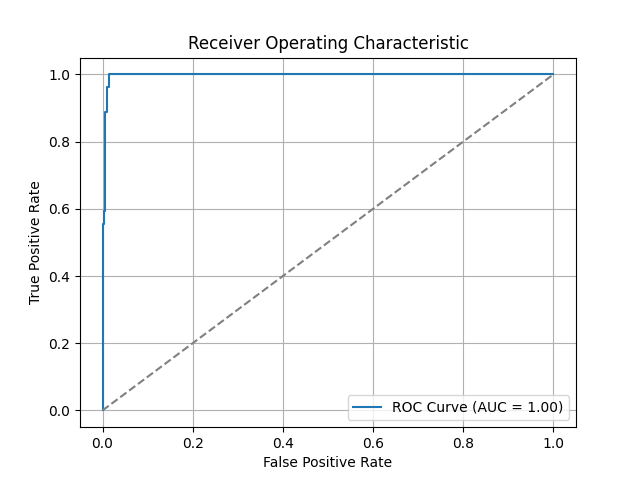
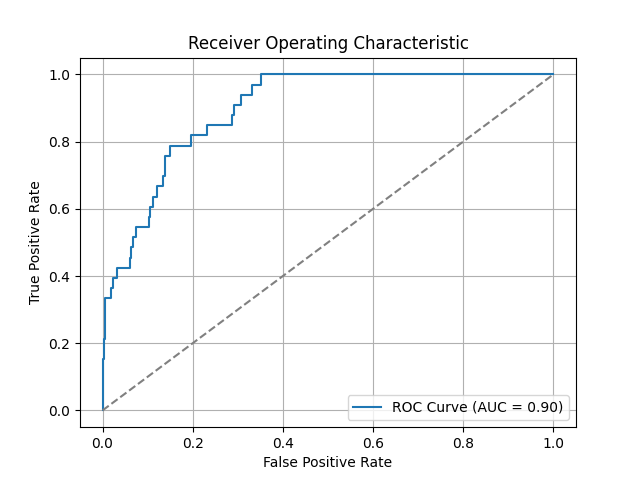
updates added

diff --git a/train13.py b/train13.py
@@ -62,7 +62,7 @@ class Train:
         self.logger.debug(f"y_val False labels: {len(y_val[y_val == 0]) }")
 
 
-        class_weights = {0:50, 1:200}
+        # class_weights = {0:1, 1:1000}
 
         self.logger.info(f"Class weights: {class_weights}")
         
@@ -119,7 +119,7 @@ class Train:
                   epochs=self.epochs, 
                   batch_size=self.batch_size, 
                   callbacks=[checkpoint_cb, early_stopping_cb, lr_scheduler],
-                  class_weight=class_weights,
+                #   class_weight=class_weights,
                   verbose=1)
 
         json_update("model_name", f"{MODEL_PATH_TENSOR_DIR}/{self.model_name}.h5")
